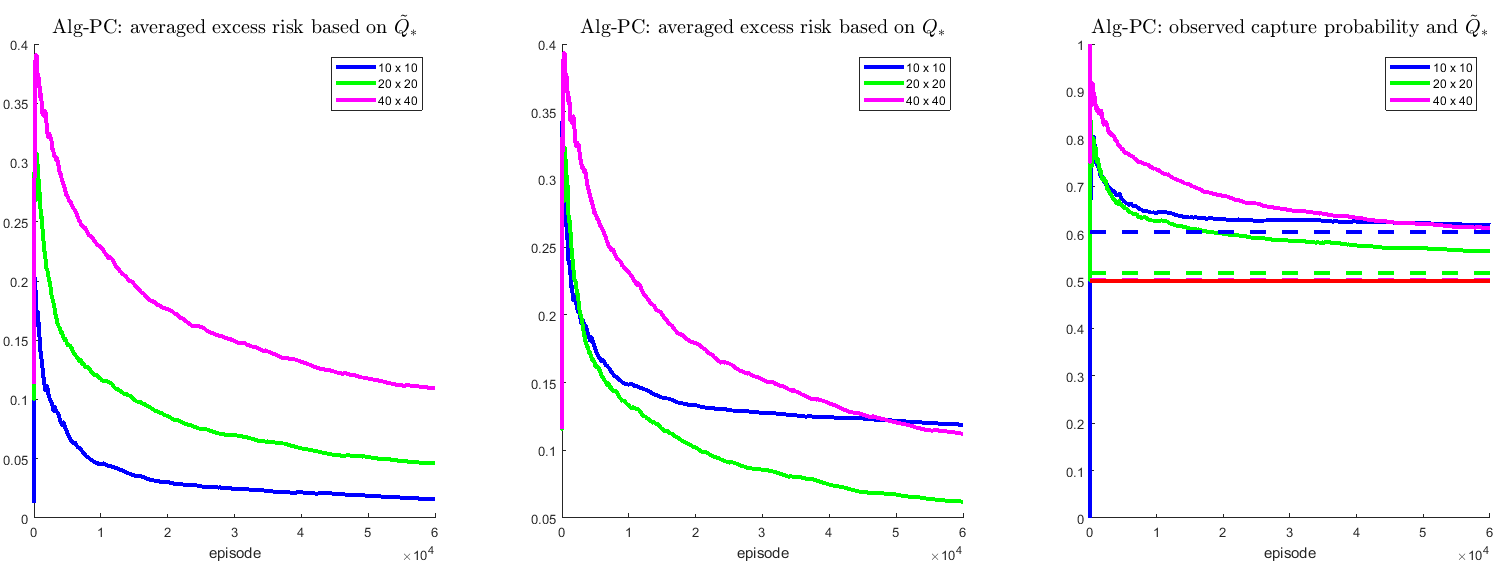
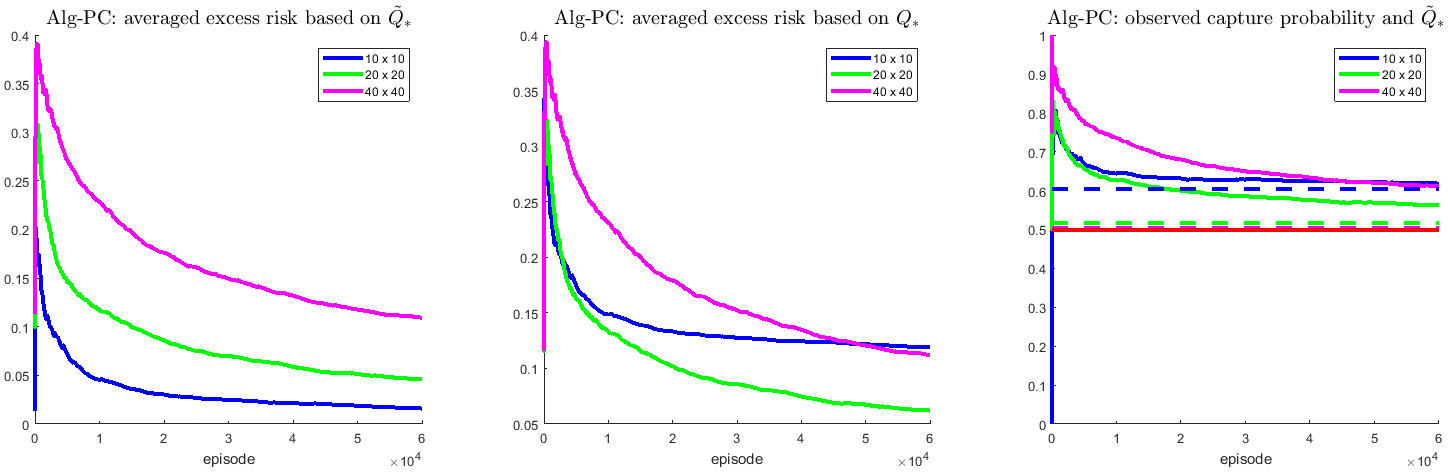
Fix figures.

diff --git a/docs/refine.html b/docs/refine.html
@@ -60,13 +60,13 @@
         </p>
       </div>
       <div class="col-md-12">
-          <img src="pwc_refine_60000_episodes.png" width="1100" height="380">
+          <img src="pwc_refine_60000_episodes.png" width="1100" height="400">
       </div>
       <br>
       <div class="col-sm-12" align="justify">
         <p>
           As we can see from the middle figure, with $T = 60,000$ episodes, Alg-PC yields a lower averaged regret on a 10$\times$10 $\mathcal{G}$ than
-          on a 40$\times$40 grid for the first 50,000 episodes while the averaged regret on a 20$\times$20 grid (can be viewed as a compromise between
+          on a 40$\times$40 $\mathcal{G}$ for the first 50,000 episodes while the averaged regret on a 20$\times$20 grid (can be viewed as a compromise between
           a quite fine grid with too many cells and a quite coarse grid with much fewer cells) is much smaller and decays faster throughout.
           The right figure consolidates this through another regret metric, the experimentally observed capture probability.
         </p>

diff --git a/docs/limits.html b/docs/limits.html
@@ -87,7 +87,7 @@
         </p>
       </div>
       <div class="col-md-12">
-          <img src="average_regret_best_learnable.png" width="1100" height="380">
+          <img src="average_regret_best_learnable.png" width="1100" height="400">
       </div>
 
       <h2>Alg-GP (Gaussian process model) </h2>
